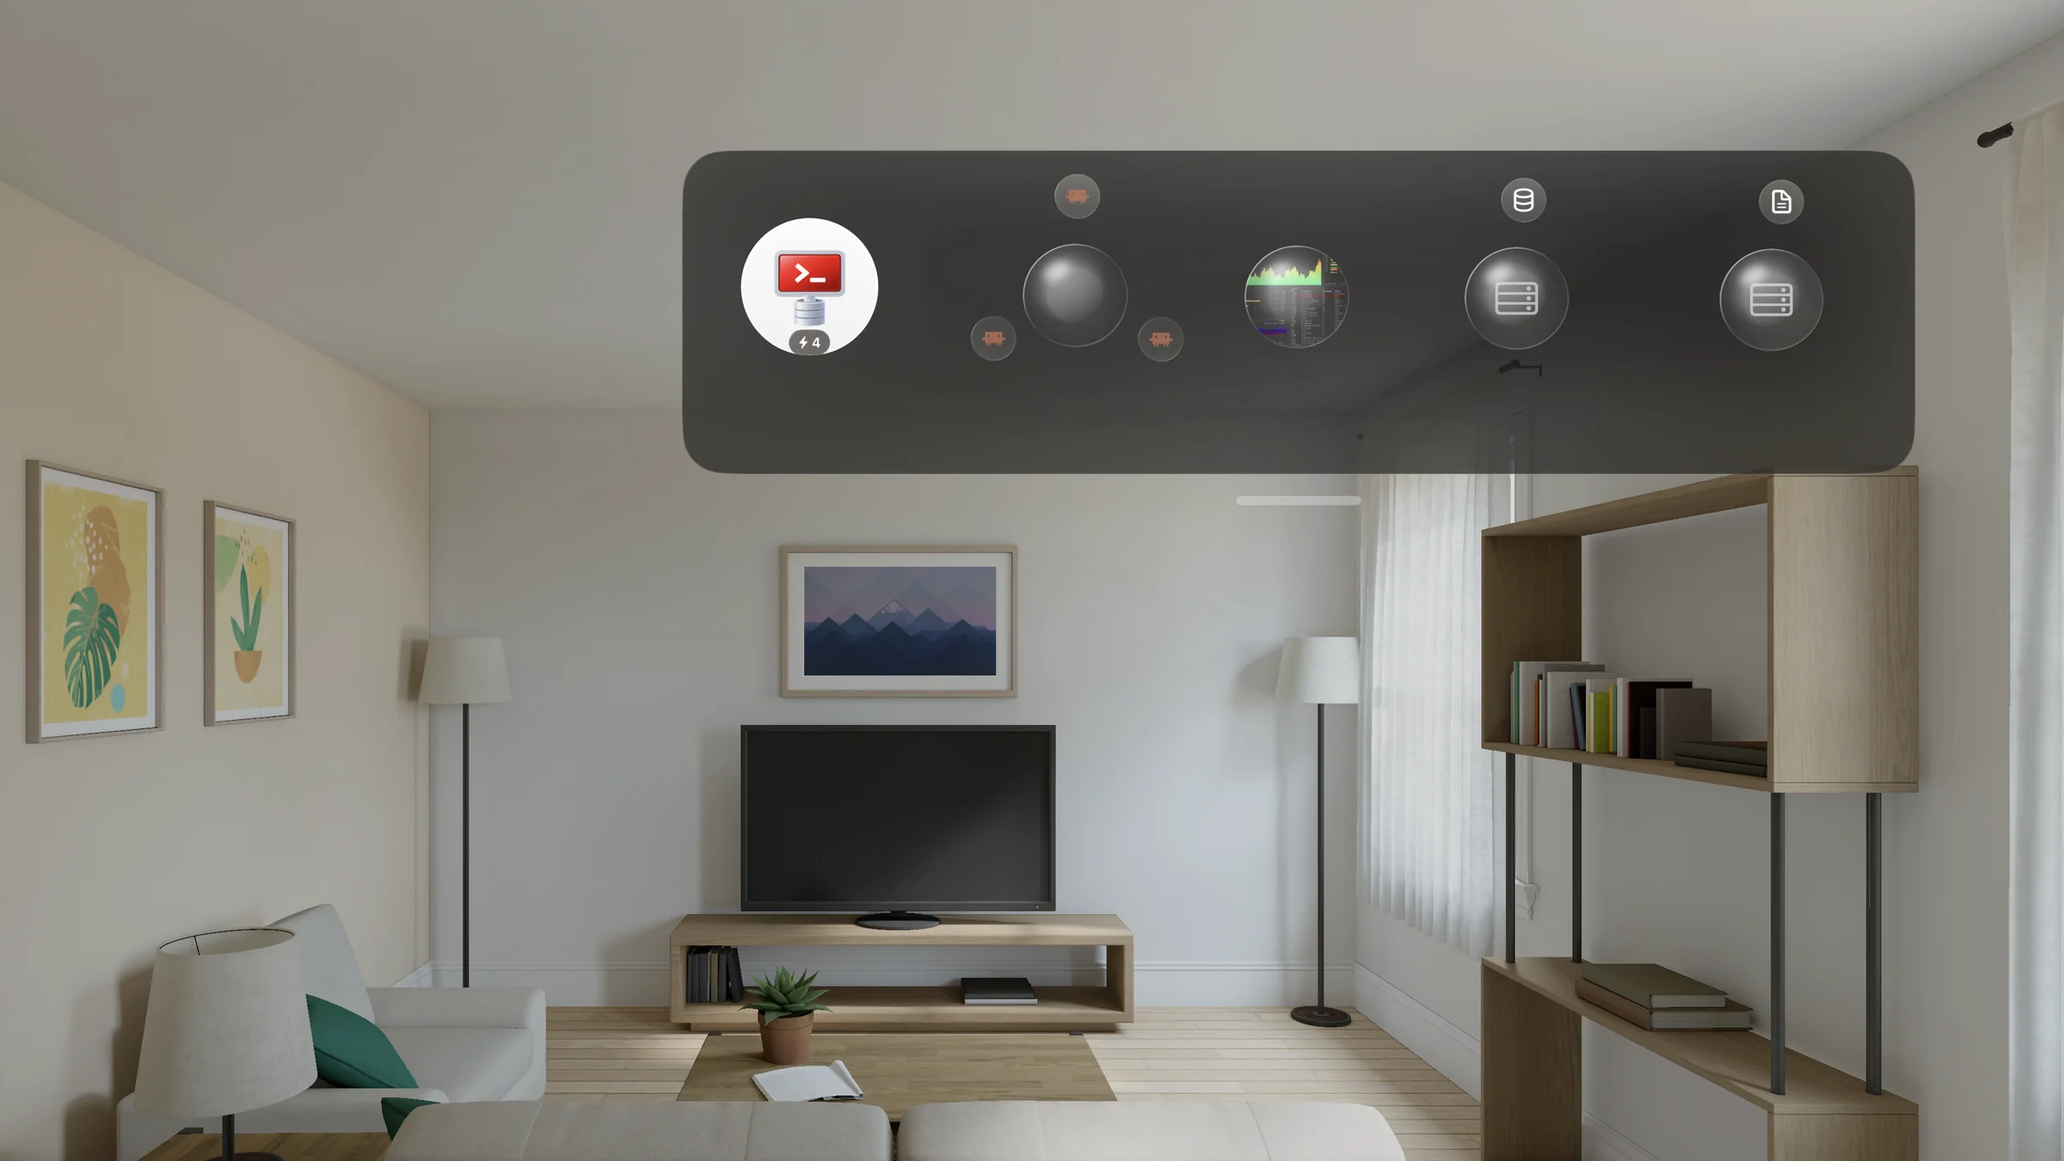
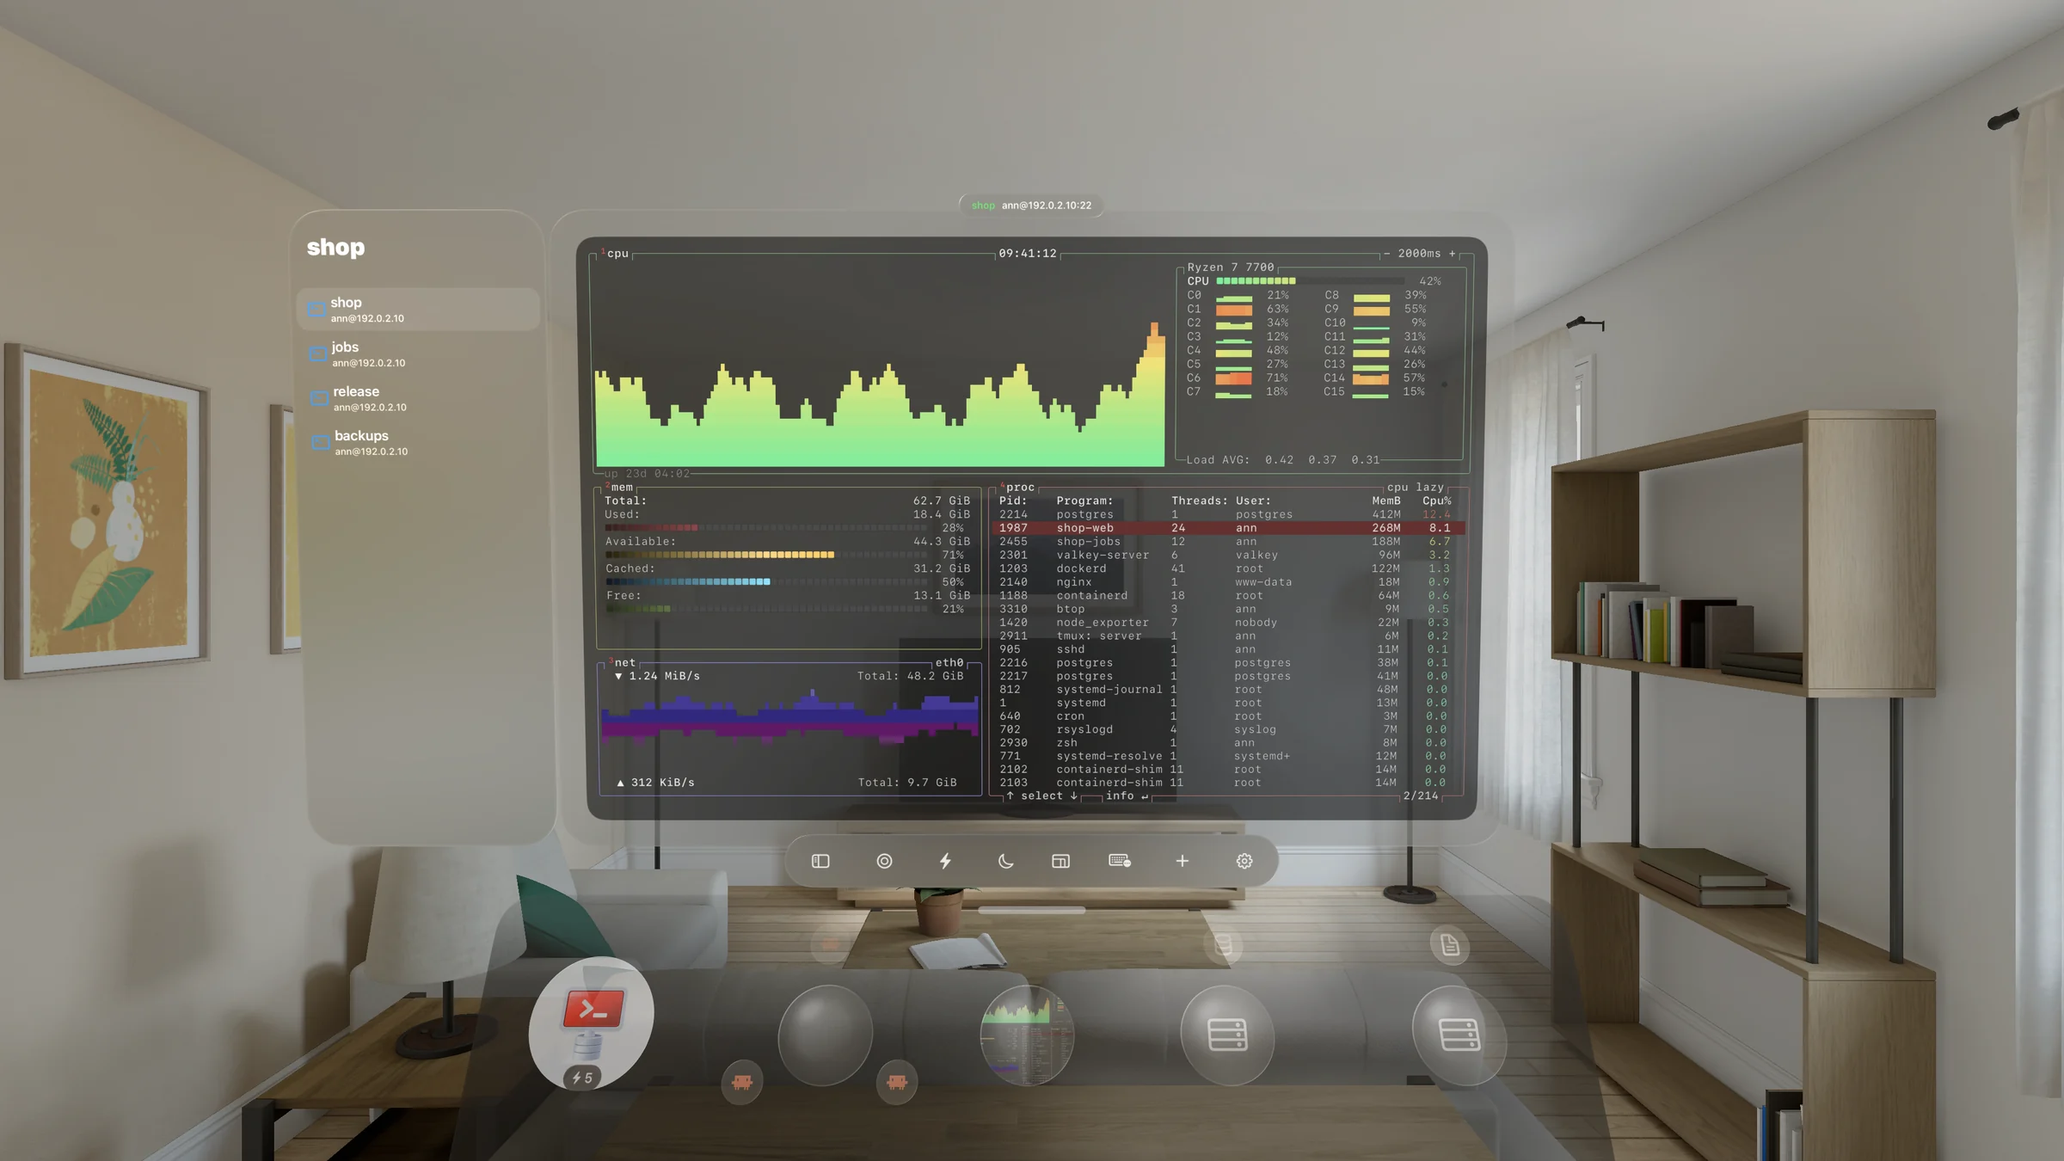
The dock picture as the dock is used, and the diagnostics kept but hidden until shown (0.4.569)
- The site's orb dock picture: a terminal with its tabs above, btop in front, and the full dock below,
  as the owner keeps his. DEBUG only: --demo-dock-below opens the dock under a short Connections
  window, and a tabbed demo terminal can draw the btop screen in its first tab.
- Vision Pro's diagnostics stay in the app but out of the way: holding the version line in Settings ▸
  About shows or hides them on this device. Settings ▸ Terminal ▸ Diagnostics appears only then, and
  a terminal window's settings gain a Debugging section with Show Refresh Counts.

diff --git a/Sources/GlassTerminal/GlassTerminalCapability.swift b/Sources/GlassTerminal/GlassTerminalCapability.swift
@@ -167,9 +167,10 @@ public final class GlassTerminalRuntime {
         case demoScreen(name: String, draw: @MainActor (_ rows: Int, _ columns: Int) -> Data, windowSettings: GlassWindowOverrides)
         /// Screenshots: one window holding a demo terminal on each of `names`, the first in front;
         /// on Vision Pro, shown in the grid when `grid` (W31: one bottom bar in tabs and in grid).
-        /// `ticks` and `titles`, when given, as `demoReplay`'s, in every one of them.
+        /// `ticks` and `titles`, when given, as `demoReplay`'s, in every one of them. With `firstDraw`,
+        /// the first draws that screen for its size, as `demoScreen`'s does, instead of `output`.
         case demoTabs(names: [String], output: Data, grid: Bool, windowSettings: GlassWindowOverrides, ticks: [Data],
-                      titles: [String], every: Duration)
+                      titles: [String], every: Duration, firstDraw: (@MainActor (_ rows: Int, _ columns: Int) -> Data)?)
         /// Screenshots: the Files window over a session that connects to nothing, opened at
         /// `path`. It shows the window's frame and header, and the browser's own "not connected"
         /// state where a listing would be.
@@ -662,12 +663,14 @@ public final class GlassTerminalRuntime {
         return window
     }
     /// Screenshots only: one window with a demo terminal on each of `names` as its tabs, each
-    /// showing `output`; on Vision Pro in the grid when `grid`.
+    /// showing `output`; on Vision Pro in the grid when `grid`. `firstDraw`: the first tab draws that
+    /// screen for its size instead (a btop-style monitor), as `requestDemoScreen`'s terminal does.
     public func requestDemoTabs(names: [String], output: Data, grid: Bool = false,
                                 windowSettings: GlassWindowOverrides = GlassWindowOverrides(),
-                                ticks: [Data] = [], titles: [String] = [], every: Duration = .milliseconds(400)) {
+                                ticks: [Data] = [], titles: [String] = [], every: Duration = .milliseconds(400),
+                                firstDraw: (@MainActor (_ rows: Int, _ columns: Int) -> Data)? = nil) {
         enqueue(.demoTabs(names: names, output: output, grid: grid, windowSettings: windowSettings,
-                          ticks: ticks, titles: titles, every: every))
+                          ticks: ticks, titles: titles, every: every, firstDraw: firstDraw))
     }
     /// Screenshots only: a terminal window's own settings (W22) — lighter glass with a tint, a
     /// larger font and a bar cursor — over the demo's Appearance.

diff --git a/site/pages/index.html b/site/pages/index.html
@@ -57,8 +57,8 @@ description: Terminals, databases, remote desktops and an editor for Apple Visio
   <p class="intro">Set <strong>Settings ▸ Appearance ▸ Orbs ▸ Shrink to Orb</strong> to <strong>Into the Dock</strong>, and a window you shrink closes into an orb in one dock, with Connections first. A terminal window's tabs sit on a ring around its orb. A machine's databases, desktops and editors gather on that machine's orb. Pinch an orb, and its window comes back above the dock at the size it had. Resize the dock, and the orbs wrap to its shape.</p>
   <div class="gallery">
     <figure>
-      <img class="room" src="static/shots/vision-dock.webp" width="2400" height="1350" loading="lazy" alt="The orb dock on Vision Pro, high in the simulator's living room: the Connections orb with its Active count of four, a window of three coding agents with its tabs on a ring, a btop monitor on build, and two machine orbs, one holding the shop database and one the editor.">
-      <figcaption><strong>Every window, one row.</strong> Connections, three coding agents in one window, a monitor on build, and the machines holding a database and the editor.</figcaption>
+      <img class="room" src="static/shots/vision-dock.webp" width="2400" height="1350" loading="lazy" alt="Vision Pro in the simulator's living room: a terminal window with its sidebar of four tabs (shop, jobs, release and backups), running btop, and below it the orb dock: the Connections orb with its Active count of five, the coding agents' window with its tabs on a ring, a btop monitor on build, and two machine orbs, one holding the shop database and one the editor.">
+      <figcaption><strong>Work above, everything else below.</strong> A terminal with its tabs, and the dock under it: Connections, three coding agents in one window, a monitor on build, and the machines holding a database and the editor.</figcaption>
     </figure>
     <figure>
       <img class="room" src="static/shots/vision-dock-name.webp" width="2400" height="1350" loading="lazy" alt="Closer on the dock: the Connections orb, then the coding agents' orb with its tabs ringed around it, the name of one tab, Storefront checkout redesign, showing above it, and the btop monitor's orb beside it.">

diff --git a/Sources/GlassTerminal/TerminalConnectFlow.swift b/Sources/GlassTerminal/TerminalConnectFlow.swift
@@ -350,15 +350,21 @@ struct TerminalConnectFlow: ViewModifier {
             sessionManager.registerSession(session)
             session.state = .connected
             presentTerminalWindow(for: session, windowSettings: windowSettings)
-        case .demoTabs(let names, let output, let grid, let windowSettings, let ticks, let titles, let every):
-            // The same connectionless sessions, as the tabs of one window.
-            let sessions = names.map { name in
+        case .demoTabs(let names, let output, let grid, let windowSettings, let ticks, let titles, let every, let firstDraw):
+            // The same connectionless sessions, as the tabs of one window; the first drawing
+            // `firstDraw`'s screen for its size when there is one.
+            let sessions = names.enumerated().map { index, name in
+                let draw = index == 0 ? firstDraw : nil
+                let program = DemoWheelAnswer()
                 let session = TerminalSession(server: ServerConfiguration(name: name, host: "192.0.2.10", username: "ann"),
                                               terminalWriteSink: { _ in },
-                                              terminalResizeSink: { _, _ in })
+                                              terminalResizeSink: { rows, columns in
+                                                  if let draw { program.session?.feedTerminalData(draw(rows, columns)) }
+                                              })
+                program.session = session
                 sessionManager.registerSession(session)
                 session.state = .connected
-                session.feedTerminalData(output)
+                if draw == nil { session.feedTerminalData(output) }
                 return session
             }
             // Each writing as `demoReplay`'s does, a little apart, as agents at work in one window.

diff --git a/Sources/GlassShell/GlassOrbDock.swift b/Sources/GlassShell/GlassOrbDock.swift
@@ -243,6 +243,17 @@ public final class GlassOrbDockModel {
         lastSide = side
     }
 
+    #if DEBUG
+    /// Screenshots (`--demo-dock-below`): the dock opens under the Connections window, low and in front,
+    /// with the window brought back above it, as the owner keeps his ("the terminal above with tabs open
+    /// and the full dock below", 2026-10-31); in the simulator visionOS put it high on the right, and
+    /// nothing there can move a window.
+    public static var demoOpensBelowConnections = false
+
+    /// Screenshots: the next window opens above the dock, as one brought back from it does.
+    public func demoNextWindowByDock() { returning(nil) }
+    #endif
+
     /// Where a window opens: by the dock when the dock asked for it, else wherever visionOS puts it.
     func placement(_ context: WindowPlacementContext) -> WindowPlacement {
         returning.removeAll { $0.until <= .now }
@@ -263,9 +274,14 @@ public extension Scene {
     /// The dock opens at the size the person gave it, wherever visionOS puts it; at its first
     /// otherwise, and fits its orbs (`GlassOrbDockView`).
     func glassOrbDockOpensAtItsSize() -> some Scene {
-        defaultWindowPlacement { _, _ in
-            WindowPlacement(size: GlassConnectionsWindowSize.stored(
-                GlassUITestRun.settingsDefaults.string(forKey: GlassOrbDock.sizeKey) ?? ""))
+        defaultWindowPlacement { _, context in
+            let size = GlassConnectionsWindowSize.stored(GlassUITestRun.settingsDefaults.string(forKey: GlassOrbDock.sizeKey) ?? "")
+            #if DEBUG
+            if GlassOrbDockModel.demoOpensBelowConnections, let main = context.windows.first(where: { $0.id == "main" }) {
+                return WindowPlacement(.below(main), size: size)
+            }
+            #endif
+            return WindowPlacement(size: size)
         }
     }
 

diff --git a/Sources/GlassShell/GlassShellSettingsView.swift b/Sources/GlassShell/GlassShellSettingsView.swift
@@ -421,6 +421,10 @@ public struct GlassShellSettingsView: View {
 struct GlassShellAboutView: View {
     private static let sponsor = URL(string: "https://github.com/sponsors/msitarzewski")!
     @State private var showsAcknowledgements = false
+    #if os(visionOS)
+    /// Diagnostics shown on this device (`GlassDebugging`): holding the version line shows or hides them.
+    @AppStorage(GlassDebugging.revealedKey, store: GlassUITestRun.settingsDefaults) private var showsDebugging = false
+    #endif
 
     var body: some View {
         VStack(spacing: 10) {
@@ -434,6 +438,19 @@ struct GlassShellAboutView: View {
             Text("Version \(GlassShellSettingsView.versionString)")
                 .font(.caption).foregroundStyle(.secondary)
                 .accessibilityIdentifier("settings-about-version")
+                #if os(visionOS)
+                .onLongPressGesture(minimumDuration: 2) { showsDebugging.toggle() }
+                .accessibilityAction(named: showsDebugging ? "Hide Debugging" : "Show Debugging") { showsDebugging.toggle() }
+                #endif
+            #if os(visionOS)
+            if showsDebugging {
+                Text("Debugging is shown: Settings ▸ Terminal ▸ Diagnostics, and Debugging in a terminal window's settings. Hold the version again to hide it.")
+                    .font(.caption).foregroundStyle(.secondary)
+                    .multilineTextAlignment(.center)
+                    .frame(maxWidth: 380)
+                    .accessibilityIdentifier("settings-about-debugging")
+            }
+            #endif
             Text("Terminals, databases, remote desktops and an editor for every machine you own — on Mac, iPad, iPhone and Vision Pro.")
                 .font(.callout).foregroundStyle(.secondary)
                 .multilineTextAlignment(.center)

diff --git a/App/GlassDemoMode.swift b/App/GlassDemoMode.swift
@@ -296,6 +296,7 @@ enum GlassDemoMode {
             // opens, then the shop's monitor open beside it. `--demo-orb-name <title>` shows one name.
             #if os(visionOS)
             GlassUITestRun.settingsDefaults.set(true, forKey: GlassOrbDock.settingKey)
+            GlassOrbDockModel.demoOpensBelowConnections = arguments.contains("--demo-dock-below")
             GlassSessionOrbDemo.shrinksNext = true
             let ticks = (1...6).map { Data("\r\n\u{1B}[2m  ⎿  reading line \($0)\u{1B}[0m".utf8) }
             terminal.requestDemoTabs(names: ["✳ Storefront checkout redesign", "✳ Fix the flaky login tests",
@@ -310,9 +311,13 @@ enum GlassDemoMode {
             await openEditor(editor, preview: false)
             try? await Task.sleep(for: .seconds(12))
             GlassSessionOrbDemo.shrinksNext = false
-            // `--demo-dock-alone`: the dock by itself.
+            // `--demo-dock-alone`: the dock by itself. Otherwise a terminal with its tabs, back above the
+            // dock as a window from the dock comes (the owner, 2026-10-31: "the terminal above with tabs
+            // open and the full dock below").
             guard !arguments.contains("--demo-dock-alone") else { return }
-            terminal.requestDemoScreen(name: "alpha", draw: GlassDemoBtop.screen(rows:columns:), windowSettings: demoLook)
+            GlassOrbDockModel.shared.demoNextWindowByDock()
+            terminal.requestDemoTabs(names: ["shop", "jobs", "release", "backups"], output: Data(terminalTranscript.utf8),
+                                     grid: false, windowSettings: demoLook, firstDraw: GlassDemoBtop.screen(rows:columns:))
             #endif
         case "orb", "orb-looked-at":
             // Connections shrunk into its orb by the real idle path (W29): two terminals open, so

diff --git a/Sources/GlassTerminal/TerminalWindowSettingsView.swift b/Sources/GlassTerminal/TerminalWindowSettingsView.swift
@@ -15,6 +15,7 @@
 
 import SwiftUI
 import GlassLayers
+import GlassShell
 import GlassConnectionUI
 import GlassTerminalEmulator
 
@@ -29,6 +30,11 @@ struct TerminalOverridesSettingsView: View {
     /// The window's name as typed, kept on Return or on leaving the field.
     @State private var nameDraft = ""
     @FocusState private var nameFocused: Bool
+    #if os(visionOS)
+    /// The Debugging section, once shown from Settings ▸ About (`GlassDebugging`).
+    @AppStorage(GlassDebugging.revealedKey, store: GlassUITestRun.settingsDefaults) private var showsDebugging = false
+    @AppStorage(TerminalRefreshCountsView.shownKey) private var showsRefreshCounts = false
+    #endif
     #endif
 
     /// Where each kind of setting lives for every window, as This Window names it.
@@ -311,6 +317,17 @@ struct TerminalOverridesSettingsView: View {
                 Text("Focus Mode")
             } footer: {
                 Text("What surrounds you when this window enters Focus Mode. To add your own, go to All Terminals ▸ Focus Mode.")
+            }
+
+            if showsDebugging {
+                Section {
+                    Toggle("Show Refresh Counts", isOn: $showsRefreshCounts)
+                        .accessibilityIdentifier("terminal-window-refresh-counts")
+                } header: {
+                    Text("Debugging")
+                } footer: {
+                    Text("Over every terminal window: how often windows, terminals and their bars are drawn each second, how much output arrives, and how soon a typed key's answer comes back. The rest is in All Terminals ▸ Diagnostics.")
+                }
             }
             #endif
 

diff --git a/Sources/GlassTerminal/SettingsView.swift b/Sources/GlassTerminal/SettingsView.swift
@@ -403,6 +403,10 @@ struct TerminalSettingsView: View {
     @Environment(SettingsManager.self) private var settingsManager
     @State private var showingThemeEditor = false
     @State private var showingThemeChooser = false
+    #if os(visionOS)
+    /// Diagnostics only once shown from Settings ▸ About (`GlassDebugging`).
+    @AppStorage(GlassDebugging.revealedKey, store: GlassUITestRun.settingsDefaults) private var showsDebugging = false
+    #endif
     
     var body: some View {
         @Bindable var settings = settingsManager
@@ -626,7 +630,7 @@ struct TerminalSettingsView: View {
                 .onChange(of: settings.focusEnvironmentSound) { _, _ in
                     settings.saveSettings()
                 }
-            TerminalRefreshCountsSection()
+            if showsDebugging { TerminalRefreshCountsSection() }
             #endif
 
             #if os(macOS)

diff --git a/Sources/GlassShell/GlassDebugging.swift b/Sources/GlassShell/GlassDebugging.swift
@@ -1,0 +1,17 @@
+//
+//  GlassDebugging.swift
+//  Glass Power Tools — GlassShell
+//
+//  Diagnostics kept in the app but out of everyone's way (the owner, 2026-10-31: "make the debug panel
+//  toggleable so we can keep it but it's available when we need it", and "put the toggle in a
+//  debugging section in window's settings"). Holding the version line in Settings ▸ About shows them on
+//  this device, and holding it again hides them: Settings ▸ Terminal ▸ Diagnostics and a terminal
+//  window's Debugging section. Never synced.
+//
+
+import Foundation
+
+public enum GlassDebugging {
+    /// Whether this device shows the diagnostics, in `GlassUITestRun.settingsDefaults`.
+    public static let revealedKey = "settings.debuggingRevealed"
+}

diff --git a/memory-bank/tasks/2026-10/2026-10-29_headset-stalls.md b/memory-bank/tasks/2026-10/2026-10-29_headset-stalls.md
@@ -120,3 +120,15 @@ of the host's `TerminalEngine` protocol, on SwiftTerm's headless `Terminal` core
 Unicode widths and our tmux control mode are where the correctness lives). Switchable per window. Costs: selection,
 keyboard/IME input, VoiceOver, links, search highlights, images, hold-to-select and diagram marks move to the new
 view; days to a couple of weeks. Waiting on his word.
+
+## 0.4.569: the diagnostics kept, out of the way (2026-10-31)
+The owner: "make the debug panel toggleable so we can keep it but it's available when we need it"; asked which, "both
+but put the toggle in a debugging section in window's settings."
+- **Hidden until shown** (`GlassDebugging.revealedKey`, this device only, never synced): holding the version line in
+  Settings ▸ About for 2 seconds shows them, holding it again hides them (also an accessibility action, Show/Hide
+  Debugging); About then says where they are. Vision Pro only, as the diagnostics are.
+- **Settings ▸ Terminal ▸ Diagnostics** (Show Refresh Counts, Draw with Metal, Repaint Changed Lines Only) appears
+  only once shown.
+- **This Window ▸ Debugging**, once shown: **Show Refresh Counts** (the same switch, for every terminal window, as
+  its footer says).
+- Undocumented in the help on purpose: it's for diagnosing, not a feature.

diff --git a/memory-bank/activeContext.md b/memory-bank/activeContext.md
@@ -205,6 +205,12 @@ use the disposable test VM only).
   "commit the rest": all of the 10-30/31 work committed (not pushed, not deployed). **Next:** D92's step 1 (play
   Apple's components) when he says; his open choices: Reality Composer Pro 3 here, the plugin's licence, a Feedback
   report.
+- **Then (2026-10-31, after pushing `2fcad522`):** the site's dock picture retaken as he uses it ("the terminal above
+  with tabs open and the full dock below"; DEBUG `--demo-dock-below`, a tabbed demo terminal whose first tab draws
+  btop); the site rebuilt and staged on the server, **his provision command still to run**. Then the diagnostics
+  hidden until shown (hold the version in Settings ▸ About; a Debugging section in a terminal window's settings):
+  **0.4.569** built and installed on the Mac, headset and iPhone, each read back 0.4.569; no new Mac crash reports.
+  Not committed: the dock picture and 0.4.569's changes, awaiting his word.
 
 ## 2026-10-27 — the orb dock's ninth to thirteenth rounds, the terminal redraw storm, and living rooms committed and pushed (0.4.535–0.4.541)
 - **Pushed 2026-10-27 at his word ("push it"):** eight commits, `dcad5dcb`…`61a3bd0f` (0.4.495–0.4.541), each scanned for
